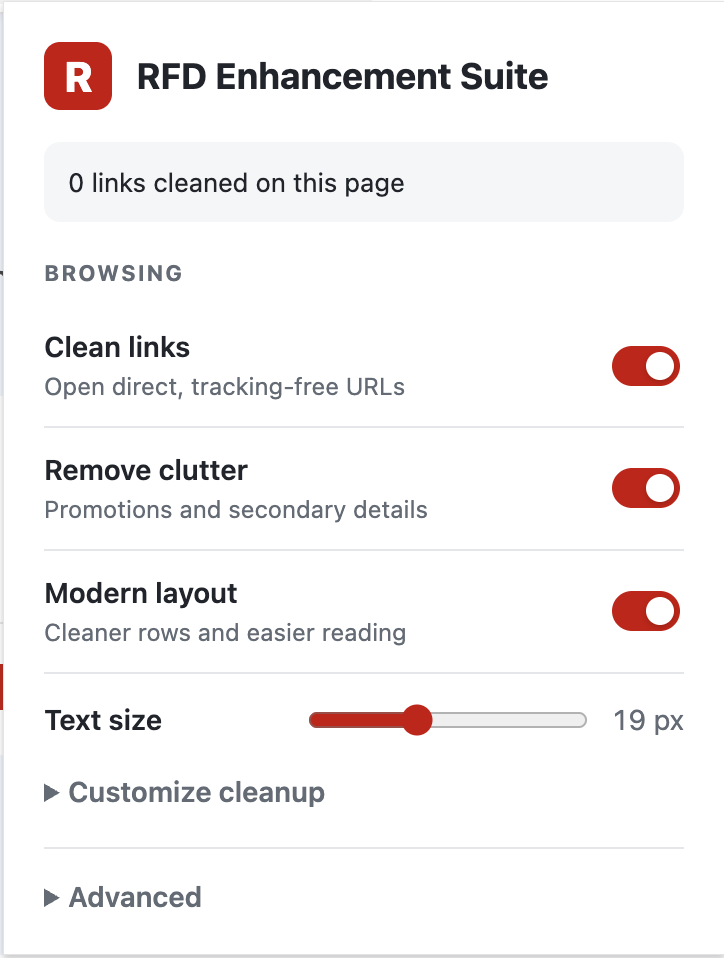
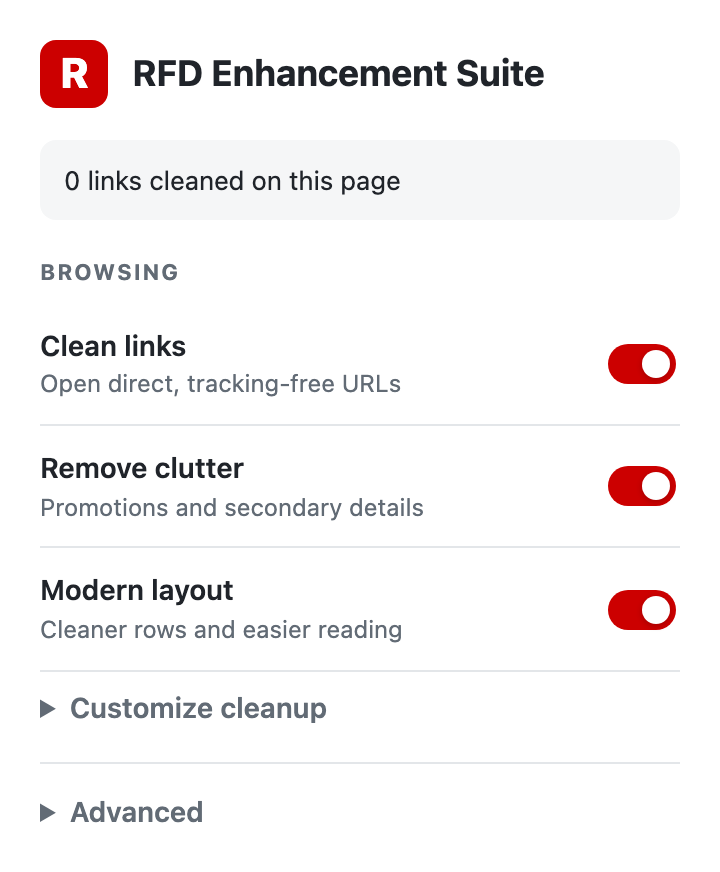
refactor(ui): replace text sizing control with browser zoom

diff --git a/css/forum-theme.css b/css/forum-theme.css
@@ -1,13 +1,5 @@
 @media screen {
   html[data-rfdm-enabled="true"] { --rfdm-post-font-size: 18px; }
-  html[data-rfdm-enabled="true"][data-rfdm-font-size="16"] { --rfdm-post-font-size: 16px; }
-  html[data-rfdm-enabled="true"][data-rfdm-font-size="17"] { --rfdm-post-font-size: 17px; }
-  html[data-rfdm-enabled="true"][data-rfdm-font-size="19"] { --rfdm-post-font-size: 19px; }
-  html[data-rfdm-enabled="true"][data-rfdm-font-size="20"] { --rfdm-post-font-size: 20px; }
-  html[data-rfdm-enabled="true"][data-rfdm-font-size="21"] { --rfdm-post-font-size: 21px; }
-  html[data-rfdm-enabled="true"][data-rfdm-font-size="22"] { --rfdm-post-font-size: 22px; }
-  html[data-rfdm-enabled="true"][data-rfdm-font-size="23"] { --rfdm-post-font-size: 23px; }
-  html[data-rfdm-enabled="true"][data-rfdm-font-size="24"] { --rfdm-post-font-size: 24px; }
   html[data-rfdm-hide-promotions="true"] :is([data-rfdm-role="promotion"], [data-rfdm-sponsored="true"], #header_leaderboard_member_wrapper, [class^="pencil_ad"], [class*=" pencil_ad"]) { display: none !important; }
 }
 @media screen {
@@ -21,7 +13,7 @@
   html[data-rfdm-enabled="true"][data-rfdm-page="list"] [data-rfdm-role="deal-row"] .thread_main,
   html[data-rfdm-enabled="true"][data-rfdm-page="list"] [data-rfdm-role="deal-row"] .thread_info_block { min-width: 0; }
   html[data-rfdm-enabled="true"][data-rfdm-page="list"] [data-rfdm-role="deal-row"] .thread_title { font-size: var(--rfdm-post-font-size); line-height: 1.4; font-weight: 600; white-space: normal; overflow-wrap: anywhere; }
-  html[data-rfdm-enabled="true"][data-rfdm-page="list"] [data-rfdm-role="deal-row"] :is(.dealer_name, .thread_meta_text, .thread_stat, .thread_footer .savings, .thread_footer .topic_time) { font-size: max(13px, calc(var(--rfdm-post-font-size) * .72)); }
+  html[data-rfdm-enabled="true"][data-rfdm-page="list"] [data-rfdm-role="deal-row"] :is(.dealer_name, .thread_meta_text, .thread_stat, .thread_footer .savings, .thread_footer .topic_time) { font-size: 13px; }
   html[data-rfdm-enabled="true"][data-rfdm-page="list"] [data-rfdm-role="deal-row"] .thread_image img { width: 56px; height: 56px; max-width: 56px; object-fit: contain; }
   @media (max-width: 767px) {
     html[data-rfdm-enabled="true"][data-rfdm-page="list"] .forum-filter-form { flex-wrap: wrap; }
@@ -30,7 +22,7 @@
 @media screen {
   html[data-rfdm-enabled="true"][data-rfdm-page="classic-list"] .topiclist.topics li.row.topic .topictitle,
   html[data-rfdm-enabled="true"][data-rfdm-page="classic-list"] .topiclist.topics li.row.topic .topic_title_link { font-size: var(--rfdm-post-font-size); line-height: 1.4; }
-  html[data-rfdm-enabled="true"][data-rfdm-page="classic-list"] .topiclist.topics li.row.topic :is(.topictitle_retailer, .thread_meta_author, .first-post-time, .last-post-time, .lastpost .username, .posts, .views, .post_voting .total_count) { font-size: max(13px, calc(var(--rfdm-post-font-size) * .72)); }
+  html[data-rfdm-enabled="true"][data-rfdm-page="classic-list"] .topiclist.topics li.row.topic :is(.topictitle_retailer, .thread_meta_author, .first-post-time, .last-post-time, .lastpost .username, .posts, .views, .post_voting .total_count) { font-size: 13px; }
 }
 @media screen {
   html[data-rfdm-enabled="true"][data-rfdm-page="thread"] #partition_forums { min-width: 0; width: 100%; }
@@ -38,17 +30,17 @@
     margin: 0; padding: 0; border-radius: 0; border-bottom: 1px solid var(--forum-item-border, #e2e2e2);
   }
   html[data-rfdm-enabled="true"][data-rfdm-page="thread"] #thread .thread_topmatter > .thread_header {
-    font-size: max(13px, calc(var(--rfdm-post-font-size) * .83));
+    font-size: 15px;
   }
   html[data-rfdm-enabled="true"][data-rfdm-page="thread"] #thread .thread_topmatter > .thread_header :is(.retailer_badge, .add_deal_alert, .thread_category_list, .thread_forum, .thread_list_info, .thread_tags, .deal_info_posted, .deal_info_full_expiry, .share-deal-button, .deal_mobile_reply_btn, .voting_compact_score_text, .upvote_count, .downvote_count) {
-    font-size: max(13px, calc(var(--rfdm-post-font-size) * .83));
+    font-size: 15px;
   }
   html[data-rfdm-enabled="true"][data-rfdm-page="thread"] #thread .thread_topmatter > .thread_header .compact_vote_score {
     font-size: var(--rfdm-post-font-size);
   }
   html[data-rfdm-enabled="true"][data-rfdm-page="thread"] [data-rfdm-role="post-body"] { max-width: 100%; font-size: var(--rfdm-post-font-size); line-height: 1.6; overflow-wrap: anywhere; }
   html[data-rfdm-enabled="true"][data-rfdm-page="thread"] #thread .thread_posts > article.thread_original_post [data-rfdm-role="post-body"] > .content { font-family: inherit; font-size: var(--rfdm-post-font-size); }
-  html[data-rfdm-enabled="true"][data-rfdm-page="thread"] #thread .thread_posts > article.thread_post:not(.thread_original_post) :is(.post_dateline, .post_profilearea .profile_username, .post_profilearea .postprofile > dd:not(.profile_avatar), .post_profilearea .profile_post_timestamp, .post_actions_primary .post_action_text, .post_voting .total_count) { font-size: calc(var(--rfdm-post-font-size) * .8); }
+  html[data-rfdm-enabled="true"][data-rfdm-page="thread"] #thread .thread_posts > article.thread_post:not(.thread_original_post) :is(.post_dateline, .post_profilearea .profile_username, .post_profilearea .postprofile > dd:not(.profile_avatar), .post_profilearea .profile_post_timestamp, .post_actions_primary .post_action_text, .post_voting .total_count) { font-size: 14px; }
   html[data-rfdm-enabled="true"][data-rfdm-page="thread"] #thread .thread_posts > article.thread_post:not(.thread_original_post) .post_profilearea .postprofile > dd:not(.profile_avatar) > i.fa { font-size: .75rem; }
   html[data-rfdm-enabled="true"][data-rfdm-page="thread"] #thread .thread_posts > article.thread_post:not(.thread_original_post) .post_dateline {
     height: auto; min-height: 23px; padding-block: 8px 4px;
@@ -65,7 +57,7 @@
     font-size: var(--rfdm-post-font-size); line-height: 1.6;
     margin: 10px 0; padding: 10px 14px;
     background: var(--post-quote-bg, #f0f4fa);
-    border: 0; border-left: 2px solid var(--post-quote-border, #99b6dc); border-radius: 12px;
+    border: 0; border-radius: 12px;
   }
   html[data-rfdm-enabled="true"][data-rfdm-page="thread"] .post_profilearea img.avatar { max-width: 32px; max-height: 32px; }
   html[data-rfdm-enabled="true"][data-rfdm-page="thread"] #thread .thread_posts > article.thread_post:not(.thread_original_post) .profile_avatar_link {
@@ -137,7 +129,7 @@
     margin-inline: auto;
   }
   html[data-rfdm-enabled="true"][data-rfdm-page="thread"] #thread .thread_title {
-    font-size: clamp(24px, calc(var(--rfdm-post-font-size) * 1.7), 41px);
+    font-size: 30px;
     line-height: 1.25;
     font-weight: 700;
     overflow-wrap: anywhere;

diff --git a/themeSettings.test.js b/themeSettings.test.js
@@ -11,19 +11,19 @@ test('new users get clutter removed while version 1 choices remain unchanged', a
   const saved = await existing.api.settings.load();
   assert.equal(saved.hideSignatures, false);
   assert.equal(saved.compactProfiles, false);
-  assert.equal(saved.fontSize, 20);
+  assert.equal('fontSize' in saved, false);
   existing.dispose();
 });
 test('concurrent changes on version 1 keep earlier choices and saved values', async () => {
   const h = start({ initial: { 'rfdm.schemaVersion': 1 } });
   await Promise.all([
     h.api.settings.save({ hideSignatures: true }),
-    h.api.settings.save({ fontSize: 20 }),
+    h.api.settings.save({ hideSidebar: false }),
   ]);
   const value = await h.api.settings.load();
   assert.equal(value.hideSignatures, true);
   assert.equal(value.compactProfiles, false);
-  assert.equal(value.fontSize, 20);
+  assert.equal(value.hideSidebar, false);
   h.dispose();
 });
 test('missing and corrupt settings use safe defaults', async () => {
@@ -31,7 +31,7 @@ test('missing and corrupt settings use safe defaults', async () => {
   const settings = await h.api.settings.load();
   assert.equal(settings.enabled, true);
   assert.equal('theme' in settings, false);
-  assert.equal(settings.fontSize, 18);
+  assert.equal('fontSize' in settings, false);
   assert.equal(settings.hidePromotions, false);
   assert.equal('density' in settings, false);
   assert.equal('contentWidth' in settings, false);
@@ -40,15 +40,15 @@ test('missing and corrupt settings use safe defaults', async () => {
 });
 test('saves independent preferences and rejects invalid patches', async () => {
   const h = start({ initial: { config: 'old' } });
-  await Promise.all([h.api.settings.save({ fontSize: 22 }), h.api.settings.save({ hideSidebar: false })]);
-  assert.equal(h.storage['rfdm.fontSize'], 22);
+  await Promise.all([h.api.settings.save({ compactProfiles: false }), h.api.settings.save({ hideSidebar: false })]);
+  assert.equal(h.storage['rfdm.compactProfiles'], false);
   assert.equal(h.storage['rfdm.hideSidebar'], false);
   assert.equal(h.storage.config, 'old');
   await assert.rejects(h.api.settings.save({ theme: 'dark' }), /Invalid/);
   await assert.rejects(h.api.settings.save({ density: 'compact' }), /Invalid/);
   await assert.rejects(h.api.settings.save({ contentWidth: 'wide' }), /Invalid/);
   await assert.rejects(h.api.settings.save({ fontSize: 25 }), /Invalid/);
-  assert.equal(h.storage['rfdm.fontSize'], 22);
+  assert.equal(h.storage['rfdm.compactProfiles'], false);
   h.dispose();
 });
 test('reset affects appearance only and subscription ignores unrelated changes', async () => {
@@ -57,9 +57,9 @@ test('reset affects appearance only and subscription ignores unrelated changes',
   const stop = h.api.settings.subscribe(value => events.push(value));
   await h.window.chrome.storage.local.set({ config: 'new' });
   assert.equal(events.length, 0);
-  await h.window.chrome.storage.local.set({ 'rfdm.fontSize': 20 });
+  await h.window.chrome.storage.local.set({ 'rfdm.compactProfiles': false });
   await h.flush();
-  assert.equal(events.at(-1).fontSize, 20);
+  assert.equal(events.at(-1).compactProfiles, false);
   await h.window.chrome.storage.local.set({ 'rfdm.theme': 'light', 'rfdm.density': 'compact', 'rfdm.contentWidth': 'wide' });
   await h.api.settings.reset();
   assert.equal(h.storage.config, 'new');
@@ -82,10 +82,10 @@ test('a partial storage change retains all previously saved preferences', async 
   const events = [];
   const stop = h.api.settings.subscribe(value => events.push(value));
   await h.flush();
-  await h.api.settings.save({ fontSize: 22 });
+  await h.api.settings.save({ compactProfiles: false });
   assert.equal(events.at(-1).enabled, false);
   assert.equal(events.at(-1).hideSidebar, false);
   assert.equal(events.at(-1).hidePromotions, false);
-  assert.equal(events.at(-1).fontSize, 22);
+  assert.equal(events.at(-1).compactProfiles, false);
   stop(); h.dispose();
 });

diff --git a/js/popupAppearance.js b/js/popupAppearance.js
@@ -2,7 +2,7 @@
   const fields = {
     enabled: document.getElementById('modern-enabled'),
     clutterEnabled: document.getElementById('modern-clutter-enabled'),
-    fontSize: document.getElementById('modern-font-size'), hidePromotions: document.getElementById('modern-hide-promotions'),
+    hidePromotions: document.getElementById('modern-hide-promotions'),
     hideSidebar: document.getElementById('modern-hide-sidebar'),
     hideSignatures: document.getElementById('modern-hide-signatures'), compactProfiles: document.getElementById('modern-compact-profiles'),
   };
@@ -10,21 +10,16 @@
   const settings = globalThis.RFDModern.settings;
   const status = document.getElementById('appearance-status');
   const pageStatus = document.getElementById('appearance-page-status');
-  const fontSizeValue = document.getElementById('modern-font-size-value');
   let saved = settings.DEFAULTS, chain = Promise.resolve(), rendering = false;
   function render(value) {
     rendering = true;
     for (const [name, field] of Object.entries(fields)) {
-      if (field.type === 'checkbox') field.checked = value[name];
-      else field.value = String(value[name]);
-      if (name === 'fontSize') fontSizeValue.value = `${value[name]} px`;
-      if (name === 'fontSize') field.disabled = !value.enabled;
+      field.checked = value[name];
       if (['hidePromotions', 'hideSidebar', 'hideSignatures', 'compactProfiles'].includes(name)) field.disabled = !value.clutterEnabled;
     }
     rendering = false;
   }
   render(saved);
-  fields.fontSize.addEventListener('input', () => { fontSizeValue.value = `${fields.fontSize.value} px`; });
   settings.load().then(value => { saved = value; render(value); }).catch(error => { status.textContent = error.message; });
   settings.subscribe(value => { saved = value; render(value); });
   function save(name, value) {
@@ -35,8 +30,7 @@
   }
   for (const [name, field] of Object.entries(fields)) field.addEventListener('change', () => {
     if (rendering) return;
-    const value = field.type === 'checkbox' ? field.checked : name === 'fontSize' ? Number(field.value) : field.value;
-    if (name === 'enabled') fields.fontSize.disabled = !value;
+    const value = field.checked;
     if (name === 'clutterEnabled') for (const key of ['hidePromotions', 'hideSidebar', 'hideSignatures', 'compactProfiles']) fields[key].disabled = !value;
     save(name, value);
   });

diff --git a/js/theme/settings.js b/js/theme/settings.js
@@ -1,13 +1,12 @@
 (() => {
   const api = globalThis.RFDModern ||= {};
-  const DEFAULTS = Object.freeze({ enabled: true, clutterEnabled: true, fontSize: 18, hidePromotions: true, hideSidebar: true, hideSignatures: true, compactProfiles: true });
+  const DEFAULTS = Object.freeze({ enabled: true, clutterEnabled: true, hidePromotions: true, hideSidebar: true, hideSignatures: true, compactProfiles: true });
   const PREFIX = 'rfdm.';
   const names = Object.keys(DEFAULTS);
   const allKeys = names.map(name => PREFIX + name);
   const validators = {
     enabled: value => typeof value === 'boolean',
     clutterEnabled: value => typeof value === 'boolean',
-    fontSize: value => Number.isInteger(value) && value >= 16 && value <= 24,
     hidePromotions: value => typeof value === 'boolean',
     hideSidebar: value => typeof value === 'boolean',
     hideSignatures: value => typeof value === 'boolean',
@@ -39,7 +38,7 @@
     const version = raw[PREFIX + 'schemaVersion'] === 1 ? 1 : 2;
     await chrome.storage.local.set(Object.fromEntries([...Object.entries(patch).map(([name, value]) => [PREFIX + name, value]), [PREFIX + 'schemaVersion', version]]));
   }
-  async function reset() { await chrome.storage.local.remove([...allKeys, PREFIX + 'theme', PREFIX + 'density', PREFIX + 'contentWidth', PREFIX + 'schemaVersion']); }
+  async function reset() { await chrome.storage.local.remove([...allKeys, PREFIX + 'fontSize', PREFIX + 'theme', PREFIX + 'density', PREFIX + 'contentWidth', PREFIX + 'schemaVersion']); }
   function subscribe(fn) {
     let current = null;
     let pending = {};

diff --git a/popupAppearance.test.js b/popupAppearance.test.js
@@ -21,7 +21,7 @@ test('popup displays default-on layout improvements and saves off without touchi
   assert.equal(p.document.querySelector('#modern-theme'), null);
   assert.equal(p.document.querySelector('#modern-density'), null);
   assert.equal(p.document.querySelector('#modern-content-width'), null);
-  assert.equal(p.document.querySelector('#modern-font-size').value, '18');
+  assert.equal(p.document.querySelector('#modern-font-size'), null);
   assert.equal(p.document.querySelector('#appearance-page-status').textContent, '');
   const input = p.document.querySelector('#modern-enabled'); input.checked = false; input.dispatchEvent(new p.document.defaultView.Event('change', {bubbles:true}));
   await p.flush(); assert.equal(p.data['rfdm.enabled'], false); assert.equal(p.data.config, 'keep'); p.dispose();
@@ -35,7 +35,6 @@ test('layout and clutter controls can be changed independently', async () => {
   await p.flush();
   assert.equal(clutter.disabled, false);
   assert.equal(p.document.querySelector('#modern-hide-promotions').disabled, false);
-  assert.equal(p.document.querySelector('#modern-font-size').disabled, true);
   clutter.checked = false; clutter.dispatchEvent(new p.document.defaultView.Event('change'));
   await p.flush();
   assert.equal(p.data['rfdm.clutterEnabled'], false);

diff --git a/js/theme/controller.js b/js/theme/controller.js
@@ -1,6 +1,6 @@
 (() => {
   const api = globalThis.RFDModern ||= {};
-  const attributes = ['enabled', 'page', 'font-size', 'hide-promotions', 'hide-sidebar', 'compact-profiles'];
+  const attributes = ['enabled', 'page', 'hide-promotions', 'hide-sidebar', 'compact-profiles'];
   let status = { enabled: false, applied: false, page: 'unsupported', reason: 'disabled' };
   function getStatus() { return { ...status }; }
   function start(document, window) {
@@ -13,7 +13,6 @@
       if (match?.kind === 'thread') journal.setAttribute(html, 'data-rfdm-hide-signatures', String(settings.clutterEnabled && settings.hideSignatures));
       if (!match) return;
       const values = { enabled: 'true', page: match.kind,
-        'font-size': String(settings.fontSize),
         'hide-promotions': String(match.kind !== 'home' && settings.clutterEnabled && settings.hidePromotions), 'hide-sidebar': String(settings.clutterEnabled && settings.hideSidebar), 'compact-profiles': String(settings.clutterEnabled && settings.compactProfiles) };
       for (const name of attributes) if (name !== 'enabled' || settings.enabled) journal.setAttribute(html, 'data-rfdm-' + name, values[name]);
     }

diff --git a/html/popup.html b/html/popup.html
@@ -17,7 +17,6 @@
       <label class="switch-row"><span><strong>Clean links</strong><small>Open direct, tracking-free URLs</small></span><input id="link-cleaning-enabled" type="checkbox" /></label>
       <label class="switch-row"><span><strong>Remove clutter</strong><small>Promotions and secondary details</small></span><input id="modern-clutter-enabled" type="checkbox" /></label>
       <label class="switch-row"><span><strong>Modern layout</strong><small>Cleaner rows and easier reading</small></span><input id="modern-enabled" type="checkbox" /></label>
-      <div class="range-row"><label for="modern-font-size">Text size</label><div class="range-control"><input id="modern-font-size" type="range" min="16" max="24" step="1" value="18" /><output id="modern-font-size-value" for="modern-font-size">18 px</output></div></div>
       <details id="customize-cleanup"><summary>Customize cleanup</summary>
         <form id="appearance-form">
           <label class="check"><input id="modern-hide-promotions" type="checkbox" /> Hide promotions and sponsored threads</label>

diff --git a/css/popup.css b/css/popup.css
@@ -50,11 +50,6 @@ h2 { margin: 18px 0 8px; color: var(--muted); font-size: 11px; font-weight: 700;
 .switch-row input::before { content: ''; position: absolute; top: 3px; left: 3px; width: 14px; height: 14px; border-radius: 50%; background: var(--surface); box-shadow: 0 1px 3px #0003; transition: transform .15s ease; }
 .switch-row input:checked { background: var(--accent); }
 .switch-row input:checked::before { transform: translateX(14px); }
-.range-row { display: flex; align-items: center; justify-content: space-between; gap: 20px; padding: 13px 0 8px; }
-.range-row > label { white-space: nowrap; font-weight: 600; }
-.range-control { display: flex; align-items: center; gap: 8px; width: 190px; }
-.range-control input { flex: 1; min-width: 0; accent-color: var(--accent); }
-.range-control output { min-width: 38px; color: var(--muted); text-align: right; font-variant-numeric: tabular-nums; }
 details { margin: 12px 0; }
 summary { cursor: pointer; color: var(--muted); font-weight: 600; }
 summary:hover { color: var(--text); }

diff --git a/html/whats-new.html b/html/whats-new.html
@@ -16,7 +16,7 @@
       <li>New installations start with signatures and secondary author details hidden. Existing choices are preserved.</li>
       <li>Affiliate links are matched by their actual hostname more often, and existing custom regex rules still work.</li>
     </ul>
-    <p>Open the extension popup to customize cleanup and text size. Reload any forum tabs that were open during the upgrade.</p>
+    <p>Open the extension popup to customize cleanup. Use browser zoom to adjust page size. Reload any forum tabs that were open during the upgrade.</p>
     <p><a href="https://forums.redflagdeals.com/hot-deals-f9/">Open Hot Deals</a></p>
   </main>
 </body>

diff --git a/docs/testing/rfd-dom-inventory.md b/docs/testing/rfd-dom-inventory.md
@@ -5,7 +5,7 @@ Inspected public logged-out HTML on 2026-09-26 and 2026-09-27. Native theme stat
 - `https://forums.redflagdeals.com/hot-deals-f9/`: body `.rfd_forums.redesign`; `#site_content > #partition_forums`; `#forum-topics.forum-topics`; rows `li.topic-card.topic[data-thread-id]`; each row's primary link `a.topic-card-info.thread_info[href]` wraps `.thread_title`, retailer and price where present. Native menu, filter and pagination are siblings. Initially supported variant: `card-v1`.
 - `https://forums.redflagdeals.com/rabbit-aviator-hat-20-2827128/`: `article#thread.thread_details`, `section.thread_posts > article.thread_post[id]`, original post `.thread_original_post`, `.post_profilearea`, `.post_body > .post_content`, `.post_actions_primary`, `.post_dateline`. Initially supported variant: `thread-v1`.
 - `https://forums.redflagdeals.com/`: public HTML inspected 2026-09-27; `#site_content.with_sidebar > #partition_forums > .forums_layout` contains direct `.primary_content`, `.ad_sidebar_bigbox` and `.sidebar_content` children. The home page keeps native forum groups; the extension only reclaims the sidebar column when Hide sidebar is on.
-- Public deal thread inspected 2026-09-27: `article#thread.thread_details .thread_original_post .thread_topmatter > header.thread_header` contains the title, retailer and category links, score controls, deal details and update time. Text size affects their text while leaving SVG dimensions alone.
+- Public deal thread inspected 2026-09-27: `article#thread.thread_details .thread_original_post .thread_topmatter > header.thread_header` contains the title, retailer and category links, score controls, deal details and update time. The modern layout applies consistent default typography to this header.
 - Common: `#site_content.with_sidebar`, `.ad_box`, `#header_leaderboard`, `#footer_leaderboard`; site sets `html[data-theme]` for its own dark mode. Two observed sponsored cards have `a.topic-card-info.sponsored-offer` and an internal `.sponsored-badge`; only that combination marks the enclosing `li.topic-card` as sponsored.
 - Additional public thread inspected 2026-09-26: `/made-cookware-made-cookware-stainless-clad-5-ply-frying-pan-3-set-8-10-12-via-shop-app-299-ymmv-75-95-off-coupon-2827126/`. Signature nodes occur as `.post_body div.signature[id^="sig"]`; some contain real profile links, while others contain only a dot. The Hide signatures setting applies CSS to `.signature` within recognized thread posts.
 - Not yet verified: real empty-list template, classic-list variant, signed-in composer, search, profile/account and Firefox Android. Synthetic empty/editor fixtures protect fallback and basic control preservation, but are not evidence of live site markup.

diff --git a/docs/testing/modern-rfd-manual.md b/docs/testing/modern-rfd-manual.md
@@ -14,9 +14,9 @@ Version 1.1.0 implementation checkout: `main`. Automated runs use sanitized, off
 On a current RFD forum list and thread in Brave/Chromium and Firefox:
 
 - Confirm layout improvements are initially on and there is no major layout breakage. Check menus, filters, sort, pagination, search, post anchors and recovery through the popup switch.
-- Toggle RFD's own light/dark mode, then move the Text size slider through 16, 18 and 24 px. Check post text, reply dates, author details, action labels, quotes, card titles, classic list titles and list metadata in both modes. Test at narrow width, 200% zoom and keyboard focus.
+- Toggle RFD's own light/dark mode and use browser zoom to resize the page. Check post text, reply dates, author details, action labels, quotes, card titles, classic list titles and list metadata in both modes. Test at narrow width, 200% zoom and keyboard focus.
 - On a desktop Hot Deals card list with Hide sidebar on, confirm rows form a centered list no wider than 1280 px, with 16 px minimum side gutters. Open and close More Filters; its controls must remain usable. Threads, classic lists and the forum home page should also have 16 px side gutters when the sidebar is hidden.
-- On the forum home page, toggle Hide sidebar and confirm the forum directory remains usable while the primary column reclaims the space. On a deal thread, confirm Text size changes the title, retailer, category, score and deal details without resizing icons.
+- On the forum home page, toggle Hide sidebar and confirm the forum directory remains usable while the primary column reclaims the space. On a deal thread, confirm original posts, replies, and quotes use the readable default size and remain usable at 200% browser zoom.
 - Confirm the 1.1.0 update page opens only when upgrading from an earlier version, and that its popup link works. Reloading the same unpacked version must not reopen the page.
 - Confirm page-local cleaned links still rewrite while Modern layout is off. Toggle Remove clutter independently and check promotions, sidebar, signatures and author details.
 - Upgrade an existing installation with a custom rules URL and appearance choices. Check that the rules, update status and explicit choices survive the migration to extension storage.

diff --git a/README.md b/README.md
@@ -14,13 +14,14 @@ The extension gives Hot Deals listings more consistent rows and discussion threa
 | --- | --- | --- |
 | Modern layout | On | Use clearer deal rows and a spacious discussion layout. |
 | Remove clutter | On | Master switch for the cleanup options below. Works independently of Modern layout. |
-| Text size | 18 px | Adjust original posts, replies, and quoted text from 16 to 24 px with a slider. Deal headers, reply details, and Hot Deals list titles and metadata scale with it. |
 | Hide promotions and sponsored threads | On | Hide recognized ads, sponsored placements and labeled sponsored threads in both Hot Deals list layouts, including pencil ads and the member header leaderboard. This changes display; it does not block requests. |
 | Hide sidebar | On | Hide sidebars on the forum home page, card lists, classic Hot Deals lists and threads, using the freed space. On card lists, RFD's filters remain available through More Filters. Turn it off to restore RFD's sidebar spacing. |
 | Hide signatures | On for new installs | Hide signatures present in discussion posts. Existing version 1 choices are preserved. |
 | Compact author details | On for new installs | Hide join date, post count, upvotes and location; names and ranks remain. Existing version 1 choices are preserved. |
 
 <img src="docs/images/popup.png" alt="RFD Enhancement Suite popup with independent browsing controls" width="360">
+
+Discussion text defaults to 18 px. Use your browser’s zoom controls to adjust the page size.
 
 Appearance settings persist across supported tabs. **Reset appearance** restores these defaults. Turning Modern layout off leaves cleanup and link cleaning active, except that an existing version 1 user who had disabled the layout starts with Remove clutter off as well. Turning Remove clutter off reveals promotions, sidebars, signatures and secondary author details while preserving each individual preference. RFD may omit signature markup for some posts or page states; the extension can only show signatures present in the page.
 
